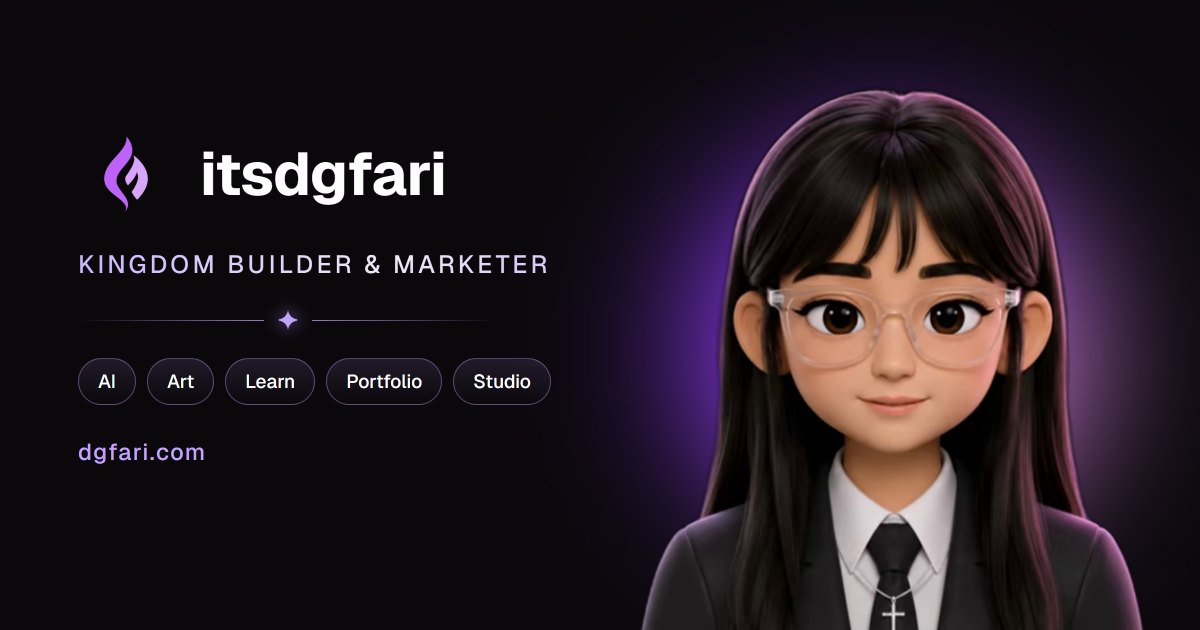
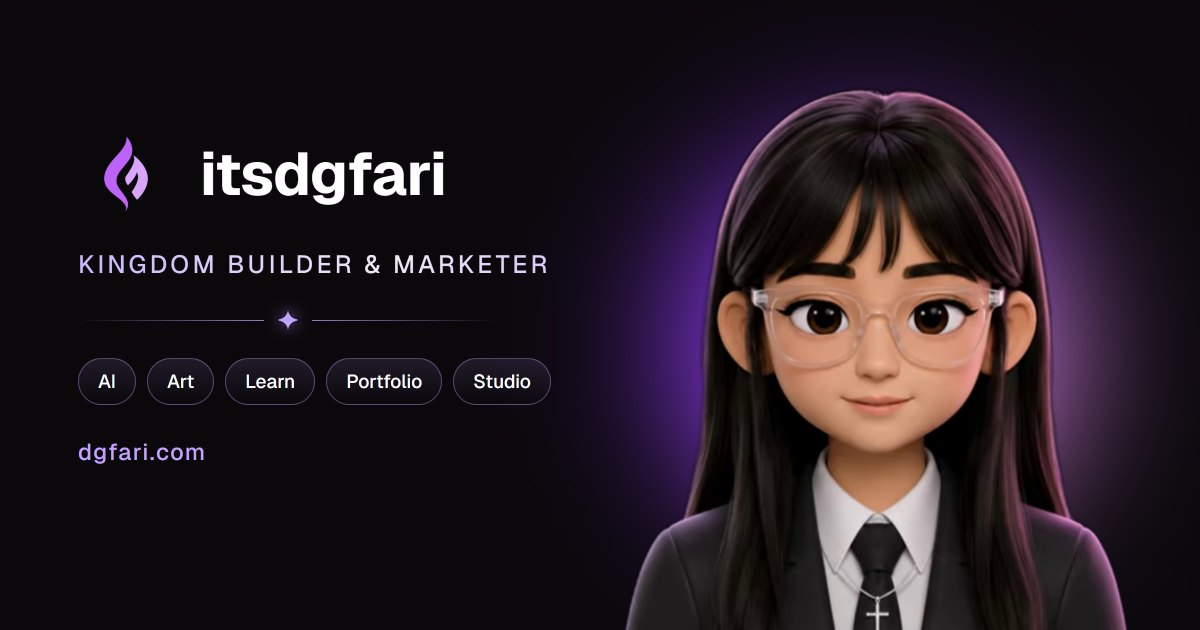
Ease the preview card's hero back left
66px past the right edge against 82. ?v= bumped to 8.

Changed region(s): [[0.4933, 0.1206, 0.9558, 1.0]]

diff --git a/index.html b/index.html
@@ -23,7 +23,7 @@
          not resolve a root-relative og:image. Width and height let them lay the
          card out before the image has finished downloading, which is the
          difference between a large card and a small one in some clients. -->
-    <meta property="og:image" content="https://dgfari.com/dgfari-og.jpg?v=7" />
+    <meta property="og:image" content="https://dgfari.com/dgfari-og.jpg?v=8" />
     <meta property="og:image:width" content="1200" />
     <meta property="og:image:height" content="630" />
     <meta property="og:image:type" content="image/jpeg" />
@@ -41,7 +41,7 @@
     <meta name="twitter:card" content="summary_large_image" />
     <meta name="twitter:title" content="DGFari" />
     <meta name="twitter:description" content="Kingdom builder and marketer. Portfolio, writing, art and studio, all in one place." />
-    <meta name="twitter:image" content="https://dgfari.com/dgfari-og.jpg?v=7" />
+    <meta name="twitter:image" content="https://dgfari.com/dgfari-og.jpg?v=8" />
     <meta name="twitter:image:alt" content="itsdgfari, kingdom builder and marketer: portfolio, learn, art and studio" />
   </head>
   <body>

diff --git a/src/components/ShareButton.tsx b/src/components/ShareButton.tsx
@@ -15,7 +15,7 @@ interface Props {
 
 const ShareButton = ({
   url,
-  image = "/dgfari-og.jpg?v=7",
+  image = "/dgfari-og.jpg?v=8",
   // The name on the preview card, sitting above the domain. The wordmark on
   // the page is lowercase; this is the brand.
   title = "DGFari",

diff --git a/src/components/SEO.tsx b/src/components/SEO.tsx
@@ -1,7 +1,7 @@
 import { useEffect } from "react";
 
 const SITE_URL = "https://dgfari.com";
-const DEFAULT_IMAGE = "/dgfari-og.jpg?v=7";
+const DEFAULT_IMAGE = "/dgfari-og.jpg?v=8";
 
 interface Props {
   title: string;
